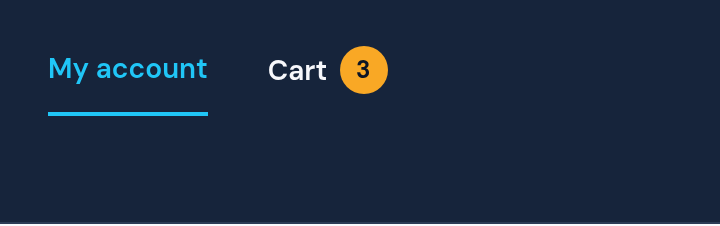
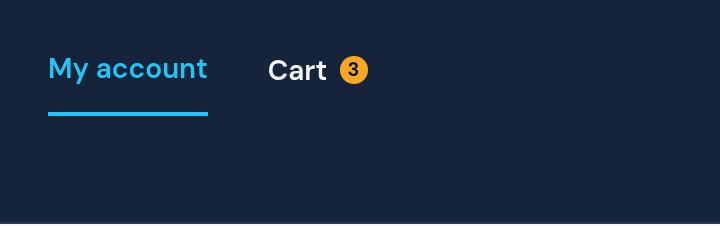
Size Cart badge preview to match menu text

Changed region(s): [[0.4583, 0.1858, 0.55, 0.4336]]

diff --git a/docs/cart-badge-preview/index.html b/docs/cart-badge-preview/index.html
@@ -19,7 +19,8 @@
     .links { display: flex; align-items: flex-start; gap: 30px; height: 36px; }
     .link { display: inline-flex; align-items: center; gap: 6px; height: 36px; padding: 0 0 10px; font-size: 14px; line-height: 24px; font-weight: 600; white-space: nowrap; }
     .current { color: var(--active); border-bottom: 2px solid var(--active); }
-    .badge { display: inline-flex; flex: 0 0 24px; align-items: center; justify-content: center; width: 24px; height: 24px; border-radius: 50%; background: #f9a825; color: #0b1426; font: 700 12px/1 "DM Sans", system-ui, sans-serif; font-variant-numeric: tabular-nums; }
+    .badge { display: inline-flex; flex: 0 0 1em; align-items: center; justify-content: center; width: 1em; height: 1em; border-radius: 50%; background: #f9a825; color: #0b1426; font: inherit; line-height: 1; font-variant-numeric: tabular-nums; }
+    .badge > span { font-size: .7em; font-weight: 700; line-height: 1; }
     .note { margin-top: 24px; max-width: 55ch; font-size: 13px; }
     @media(max-width:400px) { main { padding-inline: 12px; } .sample { padding-inline: 12px; } }
   </style>
@@ -30,11 +31,11 @@
     <p>A warm yellow circle with a dark number beside Cart.</p>
     <h2>Dark mode</h2>
     <div class="sample dark" id="dark-preview" aria-label="Dark navigation preview: Cart has three items">
-      <div class="links"><span class="link current">My account</span><span class="link">Cart <span class="badge" aria-hidden="true">3</span></span></div>
+      <div class="links"><span class="link current">My account</span><span class="link">Cart <span class="badge" aria-hidden="true"><span>3</span></span></span></div>
     </div>
     <h2>Light mode</h2>
     <div class="sample light" id="light-preview" aria-label="Light navigation preview: Cart has three items">
-      <div class="links"><span class="link current">My account</span><span class="link">Cart <span class="badge" aria-hidden="true">3</span></span></div>
+      <div class="links"><span class="link current">My account</span><span class="link">Cart <span class="badge" aria-hidden="true"><span>3</span></span></span></div>
     </div>
     <p class="note">Design preview only. The number shown is an example; this preview does not connect to a cart or change the live store.</p>
   </main>
